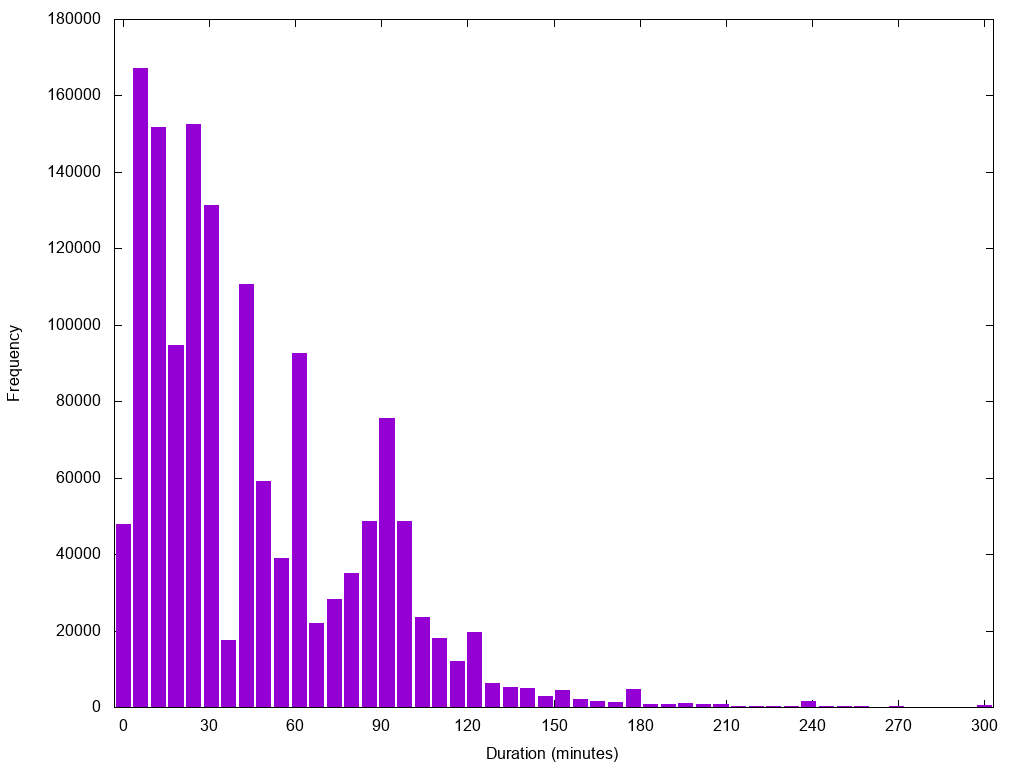
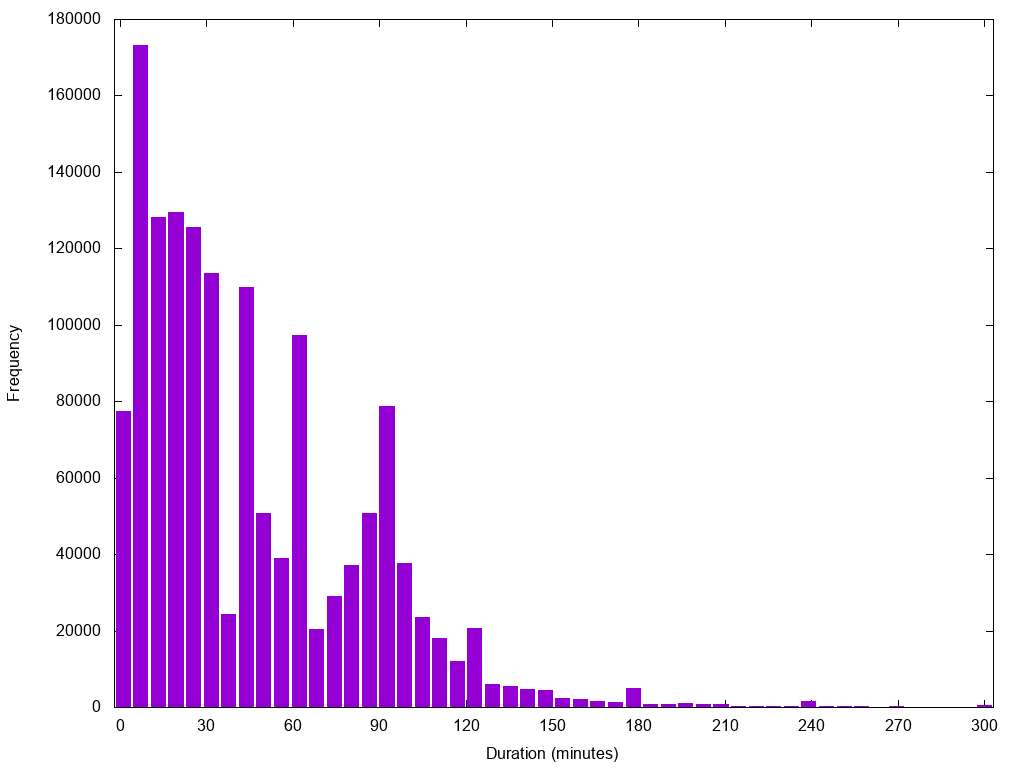
Add text + exclude null durations

diff --git a/README.md b/README.md
@@ -50,11 +50,11 @@ The earliest title in IMDb is [The Passage of Venus ](http://www.imdb.com/title/
 
 ### Durations
 
-1,440,906 titles (30.80%) have a runtime duration defined:
+1,440,883 titles (30.80%) have a runtime duration defined:
 
-- minimum: 0.00
+- minimum: 1.00
 - maximum: 125,156.00
-- mean: 46.80
+- mean: 46.81
 - median: 30.00
 - mode: 30.00
 - standard deviation: 116.67
@@ -77,8 +77,8 @@ Here are the statistics and frequency plot for feature films only:
 
 For short films only:
 
-- count: 387,287
-- minimum: 0.00
+- count: 387,277
+- minimum: 1.00
 - maximum: 1,834.00
 - mean: 13.28
 - median: 11.00
@@ -86,6 +86,8 @@ For short films only:
 - standard deviation: 10.04
 
 <img src="https://raw.githubusercontent.com/obruchez/imdb-stats/master/results/duration-frequencies.shorts.png" width="600">
+
+There is some overlap between the short films and feature films. I'm not sure it totally makes sense (e.g. a feature film shorter than 10 minutes or a short film longer than X minutes?).
 
 ### Ratings
 

diff --git a/README.template.md b/README.template.md
@@ -56,6 +56,8 @@ $shortDurationStats
 
 <img src="https://raw.githubusercontent.com/obruchez/imdb-stats/master/results/duration-frequencies.shorts.png" width="600">
 
+There is some overlap between the short films and feature films. I'm not sure it totally makes sense (e.g. a feature film shorter than 10 minutes or a short film longer than 100 minutes?).
+
 ### Ratings
 
 $titleWithRatingCount titles ($titleWithRatingPercentage) have ratings.
